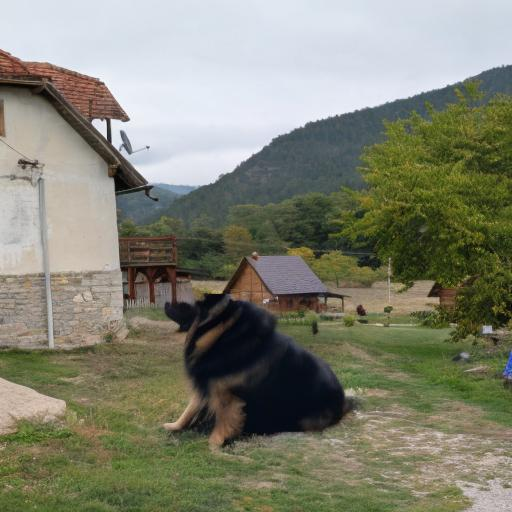
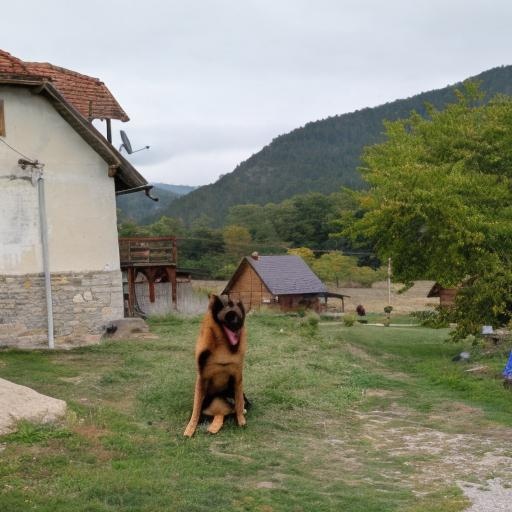
update

diff --git a/FinalProject/code/main_inpainting.py b/FinalProject/code/main_inpainting.py
@@ -65,8 +65,9 @@ mask_latent_tensor = utils.image_to_tensor(image_path=mask_path, tensor_size=lat
 
 scheduler.set_timesteps(25)
 guidance_scale = 7 # Control the CFG. Higher values -> higher dependency on the prompt. Values should be around 6-12.
-optimization_scale = 0.1
+optimization_scale = 0.05
 num_of_gd_iterations = 3
+num_of_optimizations = 15
 
 # Applying the diffusion iterations.
 for t in scheduler.timesteps:
@@ -103,13 +104,15 @@ for t in scheduler.timesteps:
     latents = mask_latent_tensor * latents_original_image_noised + (1 - mask_latent_tensor) * latents
 
     # Apply latent space optimization with the loss function
-    for _ in range(num_of_gd_iterations):
-        latents = latents.detach().requires_grad_(True)
-        loss = loss_fn(diffusion_latent=latents, original_image_latent=latents_original_image_noised, mask=mask_latent_tensor)
-        grad = torch.autograd.grad(loss, latents)[0]
-        with torch.no_grad():
-            latents = latents - optimization_scale * grad
-        latents = latents.detach()
+    if num_of_optimizations > 0:
+        num_of_optimizations -= 1
+        for _ in range(num_of_gd_iterations):
+            latents = latents.detach().requires_grad_(True)
+            loss = loss_fn(diffusion_latent=latents, original_image_latent=latents_original_image_noised, mask=mask_latent_tensor)
+            grad = torch.autograd.grad(loss, latents)[0]
+            with torch.no_grad():
+                latents = latents - optimization_scale * grad
+            latents = latents.detach()
 
 latents = latents / vae.config.scaling_factor
 
